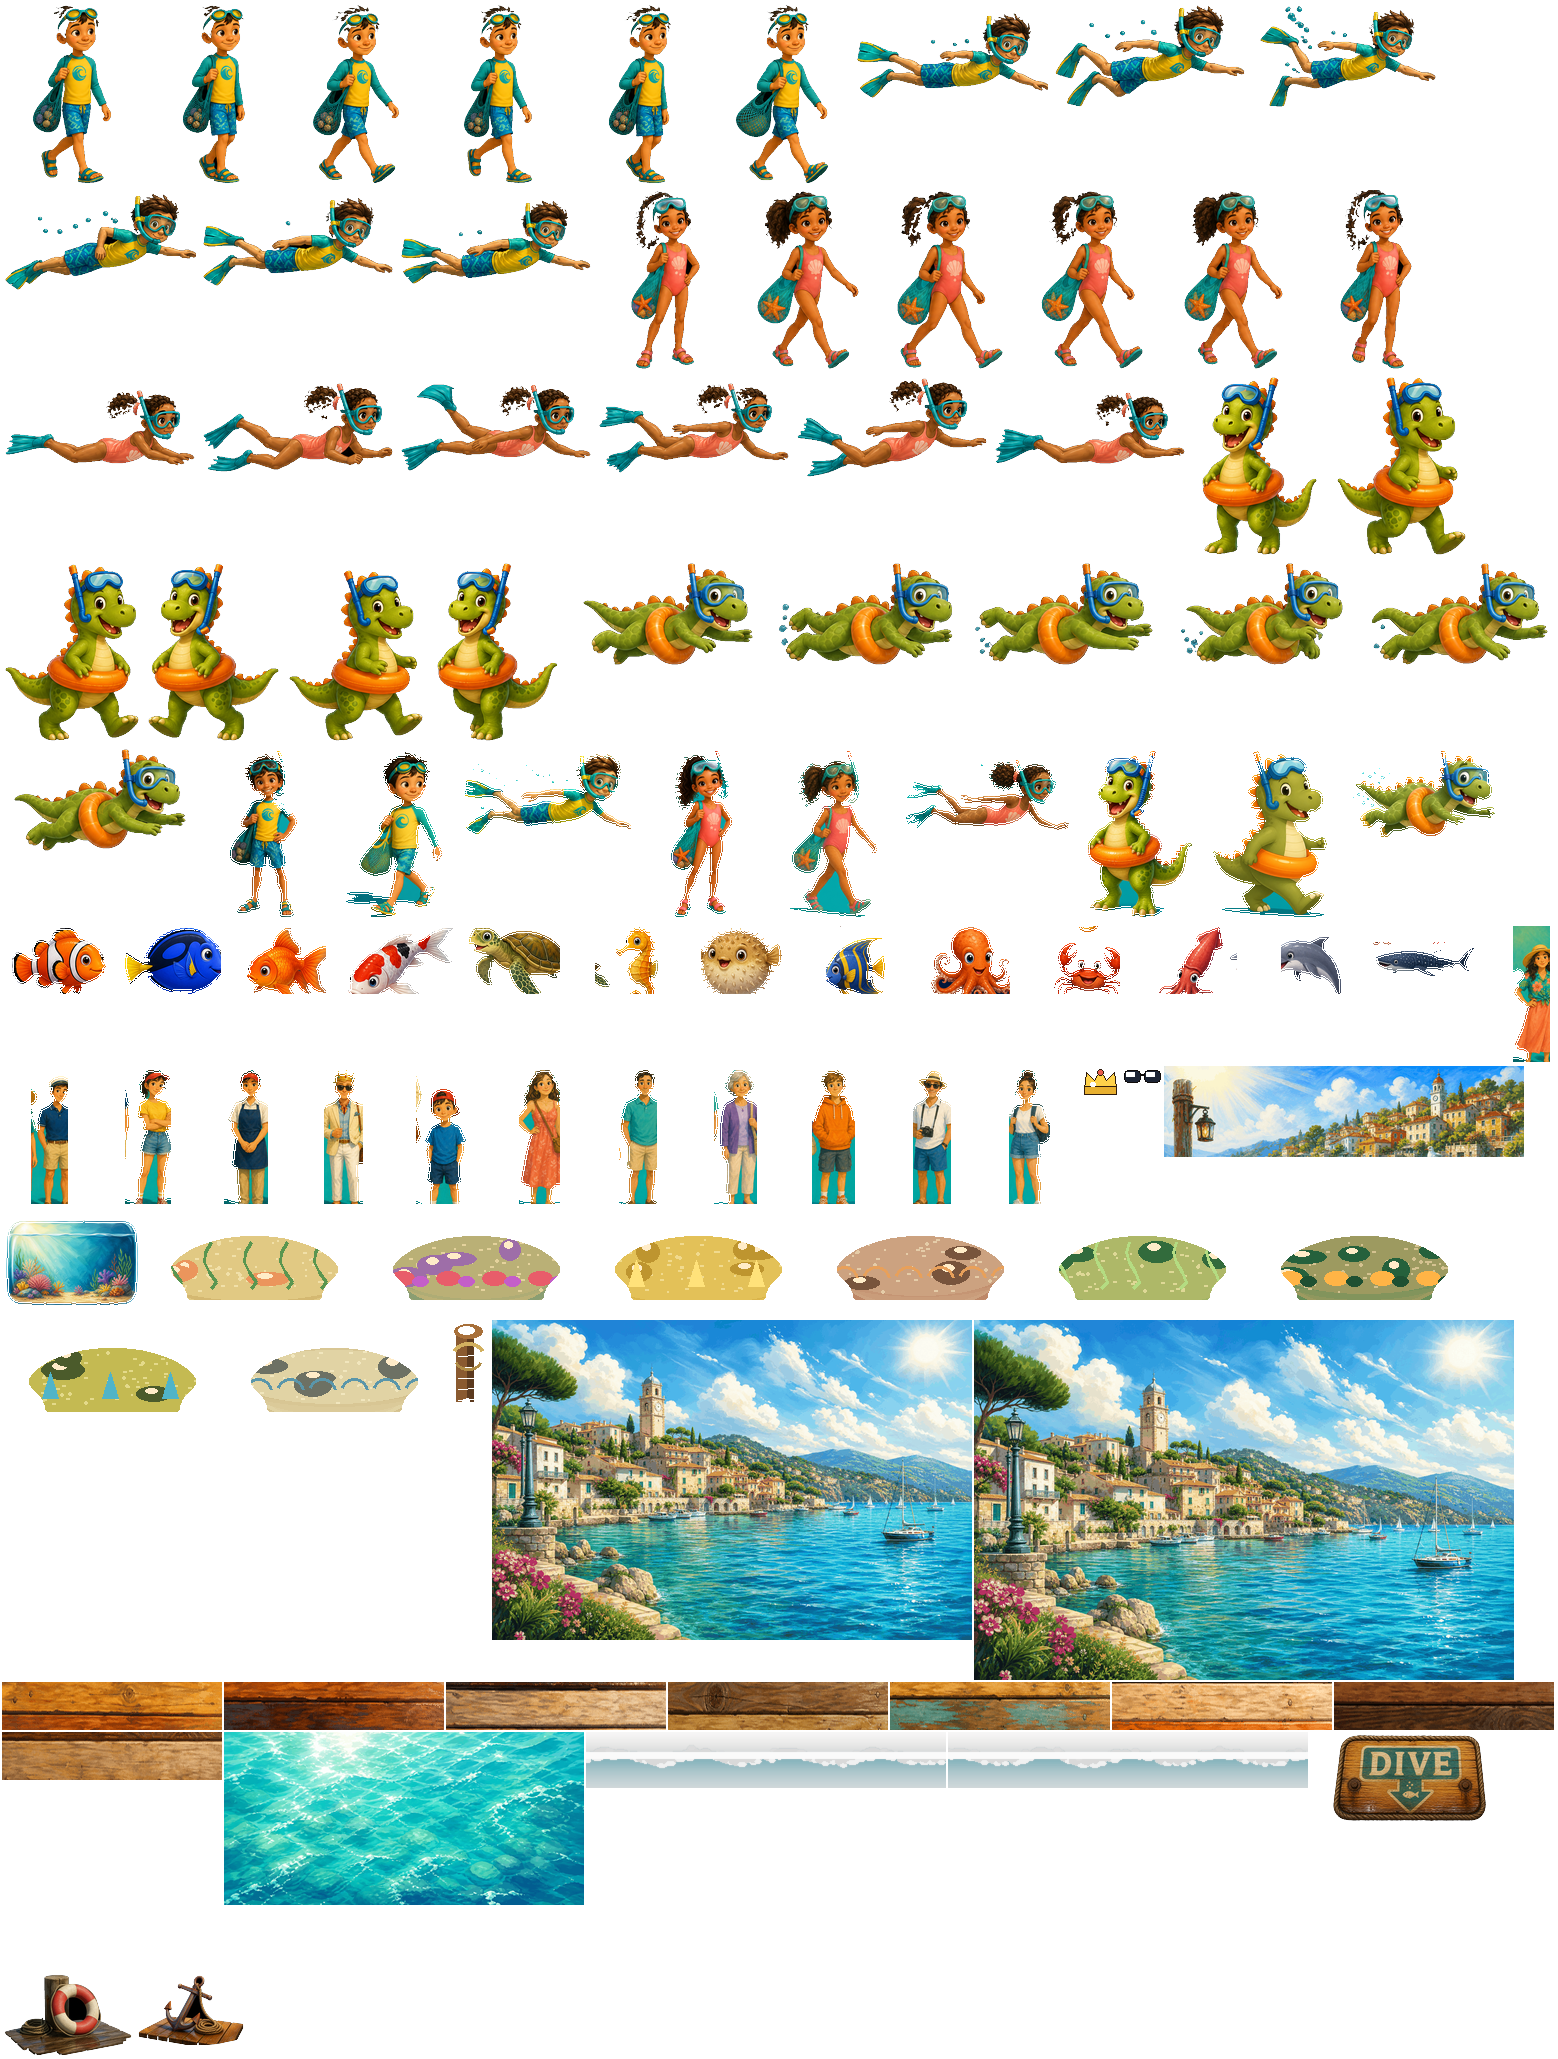
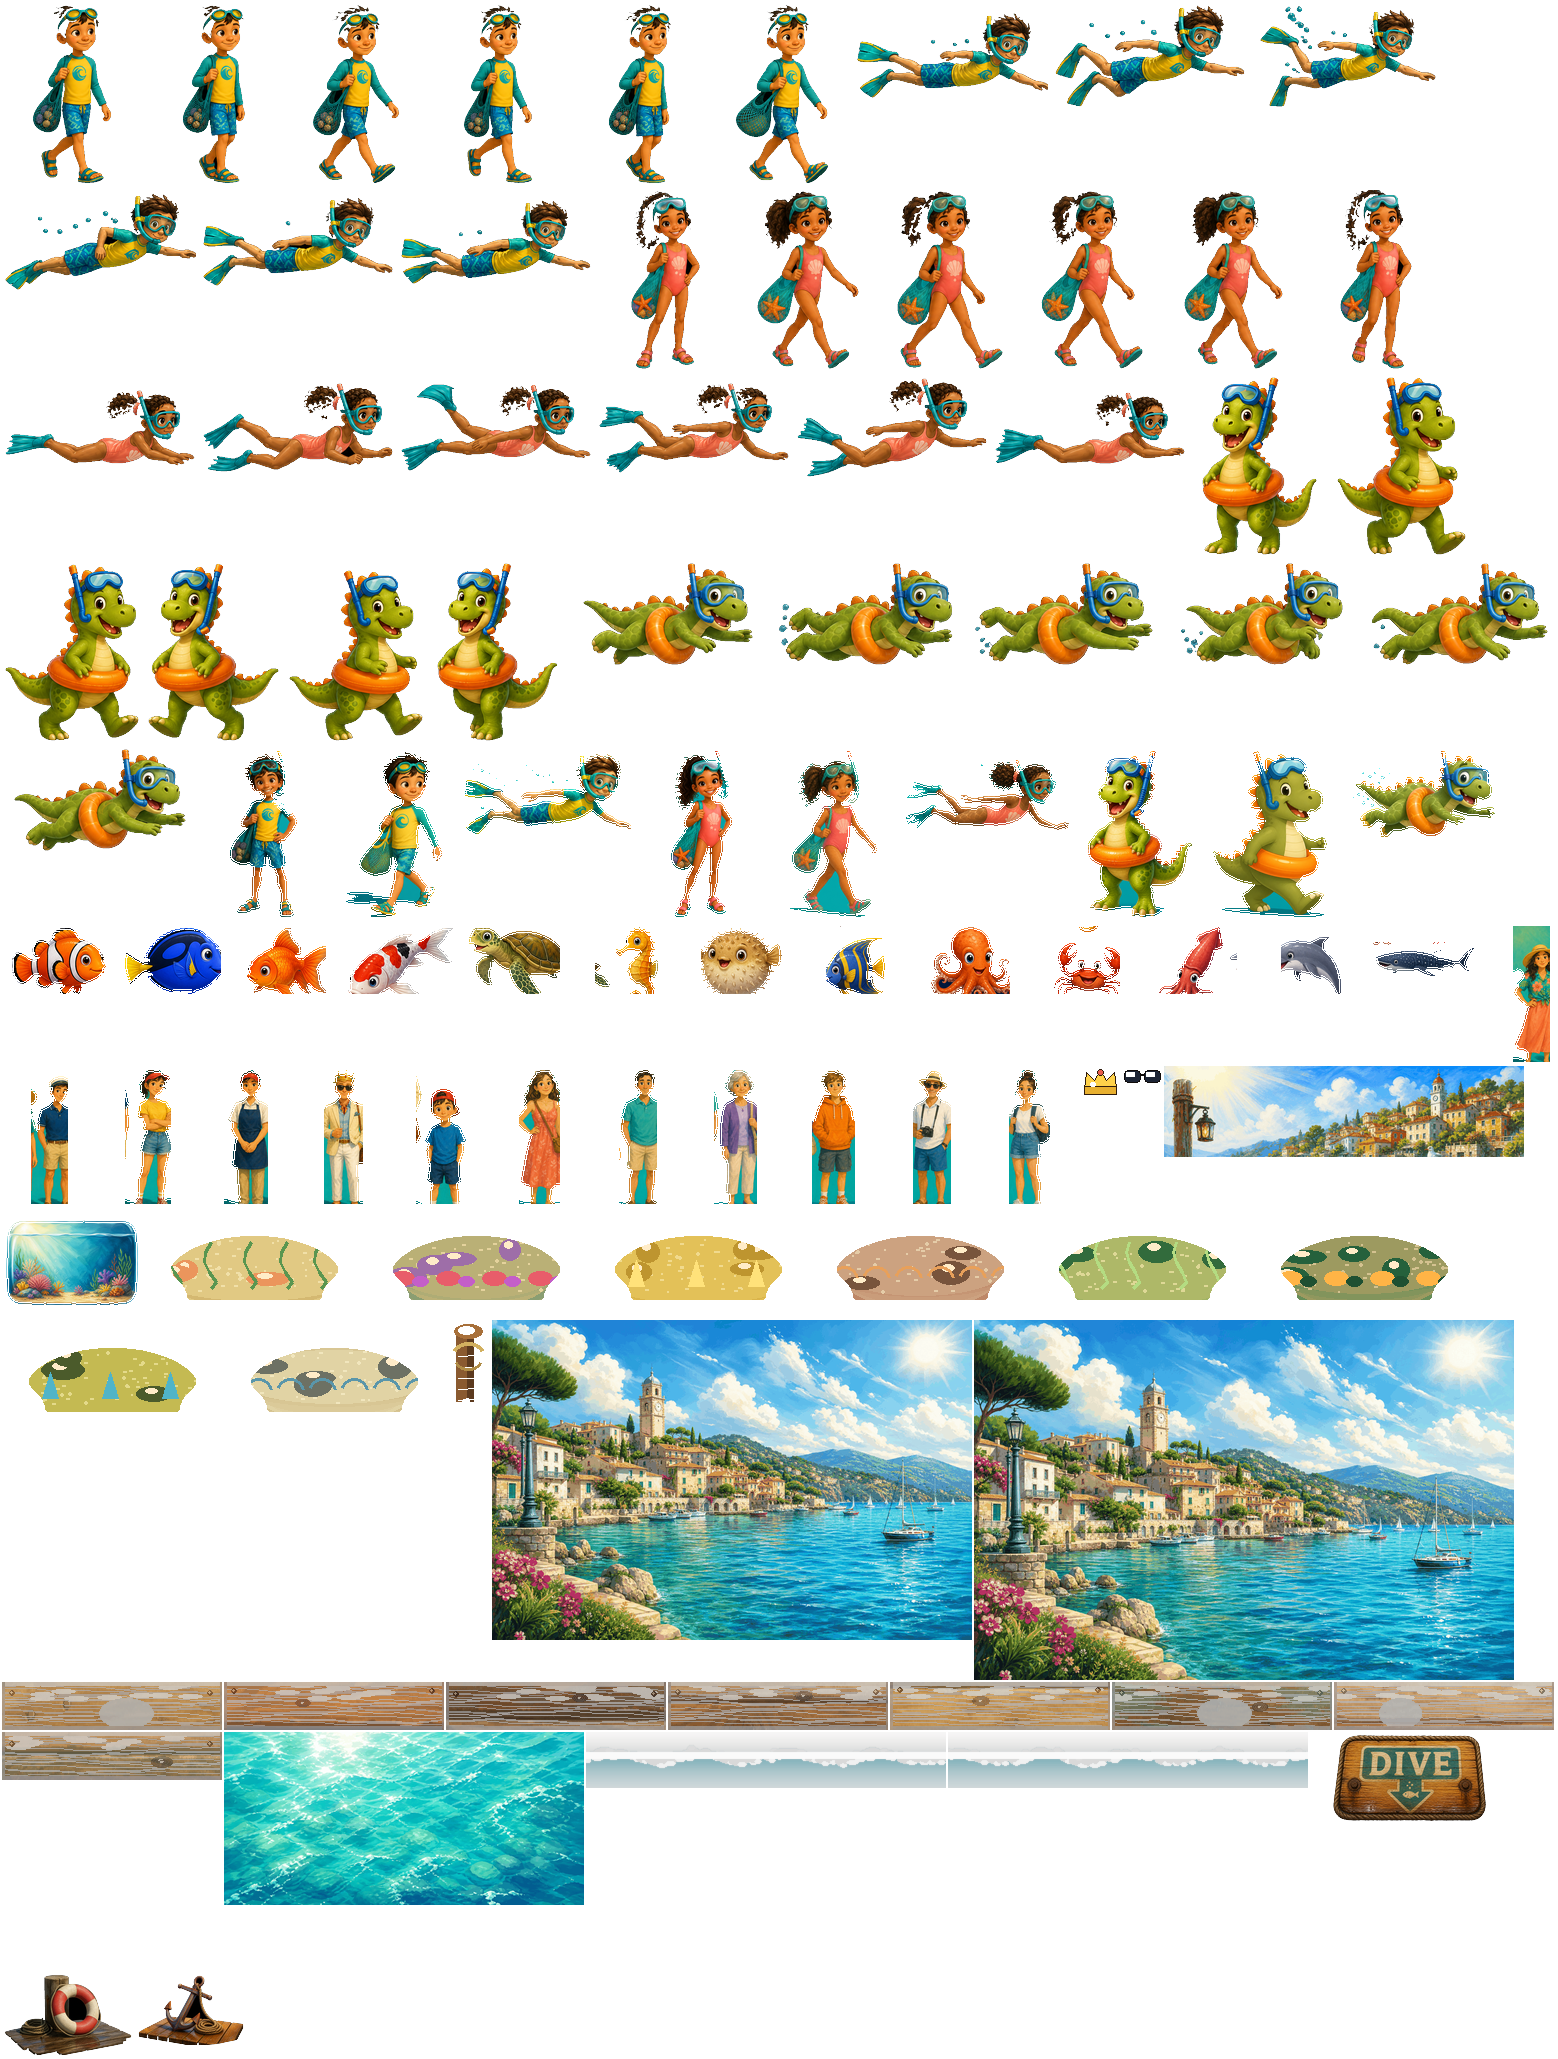
Loop 53: dock-facing town, painted boards, clean sprite keys
Frame the harbor town on the waterline so the dock camera sees roofs. Blend unique painted boards so the photo grain cannot tile. Scrub leftover sheet backgrounds so blit lighting cannot stamp a rectangle.

Changed region(s): [[0.0, 0.8082, 1.0, 0.8703]]

diff --git a/game.js b/game.js
@@ -4877,9 +4877,13 @@
     const w = shopW() + 840;
     const h = waterY - topY;
     if (ATLAS.harbortown && ART.ready) {
-      blitTile("harbortown", x, topY, w, h);
+      const c = ATLAS.harbortown;
+      // Sky + town (top of the painting) sit on the waterline so the dock
+      // camera sees roofs, not the painting's water half.
+      ctx.drawImage(ART.img, c.x, c.y, c.w, c.h * 0.70, x, 160, w, waterY - 160);
     } else if (ATLAS.harbor && ART.ready) {
-      blitHorizon(x, topY, w, h);
+      const c = ATLAS.harbor;
+      ctx.drawImage(ART.img, c.x, c.y, c.w, c.h * 0.70, x, 160, w, waterY - 160);
     } else if (paint.pier) ctx.drawImage(paint.pier, x, topY, w, h);
     else if (paint.harbor) {
       const sw = paint.harbor.width, sh = paint.harbor.height;
@@ -5431,7 +5435,7 @@
       let sx = x - ((row * 73) % 91) - hash2(row, 4) * 36;
       let n = 0;
       while (sx < x + w + 14) {
-        const pw = 118 + hash2(row * 17 + n * 31, 2) * 86 + ((row + n * 3) % 4) * 10;
+        const pw = 168 + hash2(row * 17 + n * 31, 2) * 140 + ((row + n * 3) % 5) * 18;
         const cell = plankCell(row * 11 + n * 7 + ((yy * 3) | 0));
         if (ART.ready && cell) {
           ctx.drawImage(ART.img, cell.x, cell.y, cell.w, cell.h, sx, yy, pw, ph);
@@ -6405,11 +6409,11 @@
     if (moving) {
       if (blitGait(skin, "walk", fi, x + strideX, y + bob, {
         scaleX: faceS * squashX, scaleY: squashY + turnThin * 0.14,
-        rot: lean * 0.34 + passing * 0.035, scale: 0.42 * short,
+        rot: lean * 0.34 + passing * 0.035, scale: 0.46 * short,
       })) return;
     } else if (blit(skin + "_stand", x + strideX, y + bob, {
       scaleX: faceS, scaleY: 1 + turnThin * 0.1,
-      rot: lean * 0.2, scale: 0.42 * short,
+      rot: lean * 0.2, scale: 0.46 * short,
     })) return;
     ctx.save();
     ctx.translate(x, y + bob);

diff --git a/tools/paint-loop53.py b/tools/paint-loop53.py
@@ -174,6 +174,18 @@ def figure_ranges(mass, n, min_gap=10, min_w=28):
     return None
 
 
+def scrub_bg(im: Image.Image):
+    """Kill leftover sheet background so blit lighting cannot paint a rectangle."""
+    w, h = im.size
+    px = im.load()
+    for y in range(h):
+        for x in range(w):
+            r, g, b, a = px[x, y]
+            if a < 20 or (r + g + b < 48 and a < 90):
+                px[x, y] = (0, 0, 0, 0)
+    return im
+
+
 def keep_largest_blob(im: Image.Image, min_keep=80):
     """Drop neighbor slivers that leaked into a cell."""
     w, h = im.size
@@ -235,7 +247,7 @@ def cut_grid(path: Path, cols, rows, tw, th, dist=52, max_side=1600, bottom=Fals
             y0 = int(r * ch) + 8
             x1 = int((c + 1) * cw) - 8
             y1 = int((r + 1) * ch) - 8
-            cell = keep_largest_blob(autocrop(sheet.crop((x0, y0, x1, y1)), 3))
+            cell = scrub_bg(keep_largest_blob(autocrop(sheet.crop((x0, y0, x1, y1)), 3)))
             cells.append(fit_bottom(cell, tw, th) if bottom else fit_center(cell, tw, th))
     return cells
 
@@ -254,7 +266,7 @@ def cut_row(path: Path, n, tw, th, dist=52, max_side=1400, bottom=True):
             pad = max(6, int((e - s) * 0.06))
             x0 = max(0, s - pad)
             x1 = min(w, e + pad)
-            cell = keep_largest_blob(autocrop(sheet.crop((x0, y0, x1, y1)), 2))
+            cell = scrub_bg(keep_largest_blob(autocrop(sheet.crop((x0, y0, x1, y1)), 2)))
             cells.append(fit_bottom(cell, tw, th) if bottom else fit_center(cell, tw, th))
         if len(cells) == n:
             return cells
@@ -265,7 +277,7 @@ def cut_row(path: Path, n, tw, th, dist=52, max_side=1400, bottom=True):
     for i in range(n):
         x0 = max(0, int(i * cw - overlap * 0.25) + 2)
         x1 = min(w, int((i + 1) * cw + overlap * 0.25) - 2)
-        cell = keep_largest_blob(autocrop(sheet.crop((x0, y0, x1, y1)), 2))
+        cell = scrub_bg(keep_largest_blob(autocrop(sheet.crop((x0, y0, x1, y1)), 2)))
         cells.append(fit_bottom(cell, tw, th) if bottom else fit_center(cell, tw, th))
     return cells
 
@@ -333,31 +345,26 @@ def paint_plank(seed, w=220, h=48, teal=False):
     return crush(im, 72)
 
 
-def planks_from_painting(path: Path, n=8, tw=220, th=48):
+def planks_from_painting(path: Path, n=8, tw=256, th=40):
+    painted = [paint_plank(3 + i * 13, tw, th, teal=(i == 7)) for i in range(n)]
     if not path.exists():
-        return [paint_plank(3 + i * 11, tw, th) for i in range(n)]
+        return painted
     src = Image.open(path).convert("RGBA")
-    src = src.resize((max(tw * 2, 640), max(th * n, 360)), Image.Resampling.LANCZOS)
+    src = src.resize((max(tw * 3, 720), max(th * (n + 2), 420)), Image.Resampling.LANCZOS)
     w, h = src.size
     out = []
-    band = h / n
+    band = h / (n + 1)
     for i in range(n):
-        y0 = int(i * band) + 2
-        y1 = int((i + 1) * band) - 2
-        # shift crop so seams do not line up
-        x0 = (i * 37) % max(1, w - tw * 2)
-        cell = src.crop((x0, y0, min(w, x0 + tw * 2), y1))
+        y0 = int(i * band) + 3
+        y1 = int(y0 + band * 0.55)
+        x0 = (i * 53) % max(1, w - tw)
+        cell = src.crop((x0, y0, min(w, x0 + tw), max(y0 + 8, y1)))
         cell = cell.resize((tw, th), Image.Resampling.LANCZOS)
-        if i == 3:
-            cell = ImageEnhance.Color(cell).enhance(0.82)
-            cell = ImageEnhance.Brightness(cell).enhance(0.88)
-        elif i == 5:
-            cell = ImageEnhance.Color(cell).enhance(1.08)
-            cell = ImageEnhance.Brightness(cell).enhance(1.06)
-        elif i == 6:
-            cell = ImageEnhance.Color(cell).enhance(0.7)
-            cell = ImageEnhance.Brightness(cell).enhance(0.78)
-        out.append(crush(cell, 80))
+        cell = ImageEnhance.Color(cell).enhance(0.78 + (i % 3) * 0.06)
+        cell = ImageEnhance.Contrast(cell).enhance(0.88)
+        # Blend a unique painted board so the photo grain cannot tile as one strip.
+        mixed = Image.blend(cell.convert("RGBA"), painted[i], 0.42)
+        out.append(crush(mixed, 70))
     return out
 
 
@@ -506,9 +513,9 @@ def main():
             swims = [fit_center(src, sw, sh) for _ in range(6)]
         extras[skin] = (walks, swims)
         for i, im in enumerate(walks):
-            add(f"{skin}_walk{i}", im, ww / 2, wh - 8)
+            add(f"{skin}_walk{i}", scrub_bg(im), ww / 2, wh - 8)
         for i, im in enumerate(swims):
-            add(f"{skin}_swim{i}", im, sw / 2, sh / 2)
+            add(f"{skin}_swim{i}", scrub_bg(im), sw / 2, sh / 2)
 
     for name in KEEP:
         crop, c = crop_old(old, old_at, name)
@@ -547,11 +554,11 @@ def main():
     add("waterline2", paint_waterline(17), 180, 38)
 
     if (SRC / "dive-pad.png").exists():
-        add("divepad", fit_center(flood_key(Image.open(SRC / "dive-pad.png"), 36, 1, 720), 200, 92), 100, 78)
+        add("divepad", scrub_bg(fit_center(flood_key(Image.open(SRC / "dive-pad.png"), 36, 1, 720), 200, 92)), 100, 78)
     if (SRC / "life-ring.png").exists():
-        add("lifering", fit_bottom(flood_key(Image.open(SRC / "life-ring.png"), 36, 1, 720), 132, 150), 66, 142)
+        add("lifering", scrub_bg(fit_bottom(flood_key(Image.open(SRC / "life-ring.png"), 36, 1, 720), 132, 150)), 66, 142)
     if (SRC / "dock-anchor.png").exists():
-        add("anchor", fit_bottom(flood_key(Image.open(SRC / "dock-anchor.png"), 36, 1, 720), 110, 140), 55, 132)
+        add("anchor", scrub_bg(fit_bottom(flood_key(Image.open(SRC / "dock-anchor.png"), 36, 1, 720), 110, 140)), 55, 132)
 
     sheet, atlas = pack(items)
     out = ART / "bay.png"
